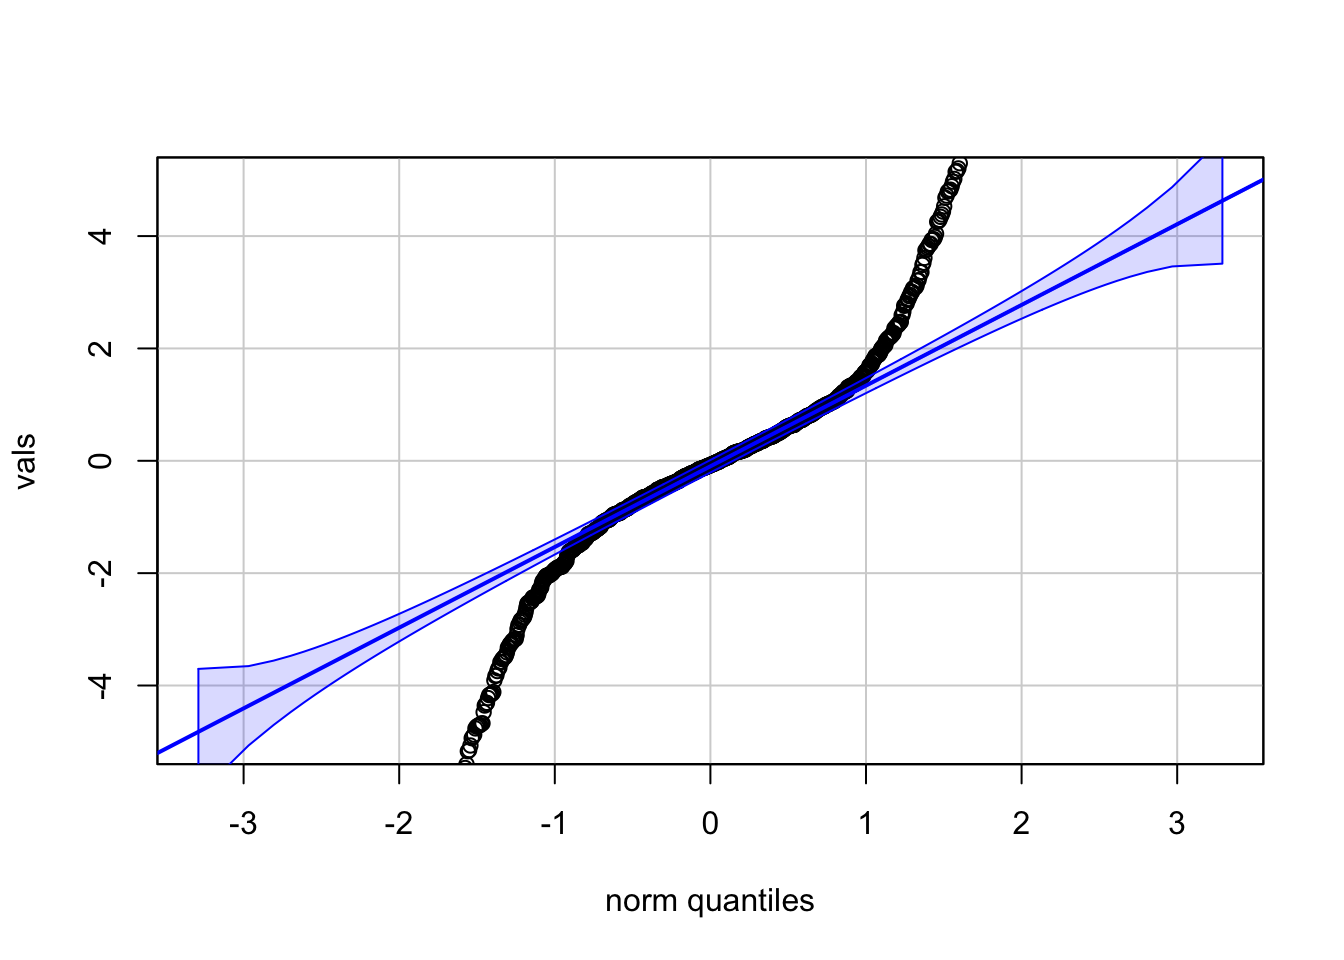
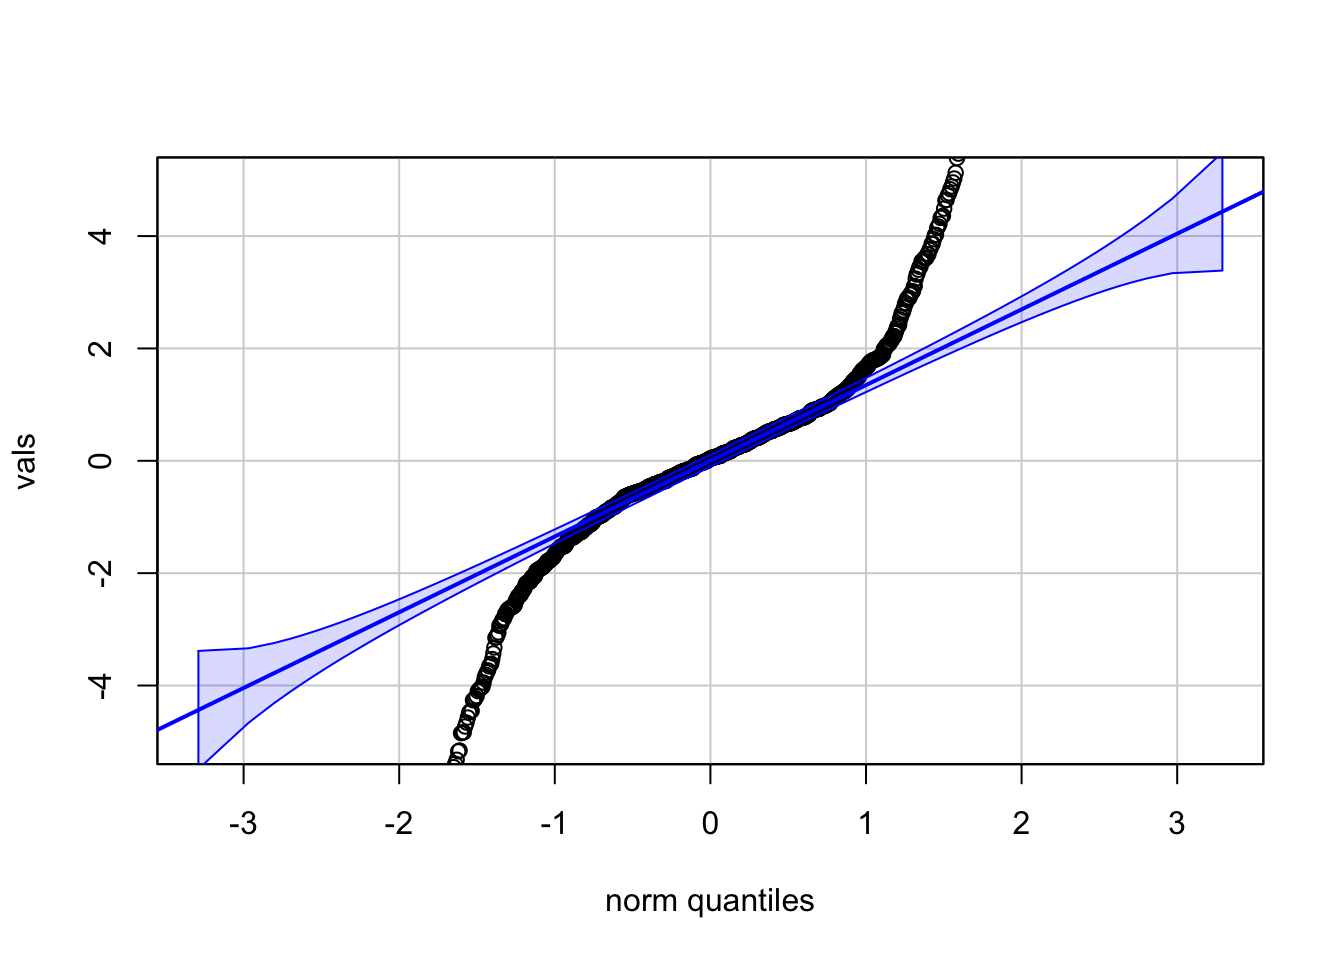
v

Changed region(s): [[0.125, 0.4375, 0.5938, 0.8125], [0.5938, 0.1562, 0.9375, 0.4375]]

diff --git a/_book/05Feb_Exercises.html b/_book/05Feb_Exercises.html
@@ -275,7 +275,7 @@ pre > code.sourceCode > span > a:first-child::before { text-decoration: underlin
 </div>
 </div>
 <div class="cell-output cell-output-stdout">
-<pre><code>[1]  65 673</code></pre>
+<pre><code>[1] 774  80</code></pre>
 </div>
 <div class="code-copy-outer-scaffold"><div class="sourceCode cell-code" id="cb8"><pre class="sourceCode r code-with-copy"><code class="sourceCode r"><span id="cb8-1"><a href="#cb8-1" aria-hidden="true" tabindex="-1"></a><span class="co"># plot looks correct</span></span></code></pre></div><button title="Copy to Clipboard" class="code-copy-button"><i class="bi"></i></button></div>
 </div>
